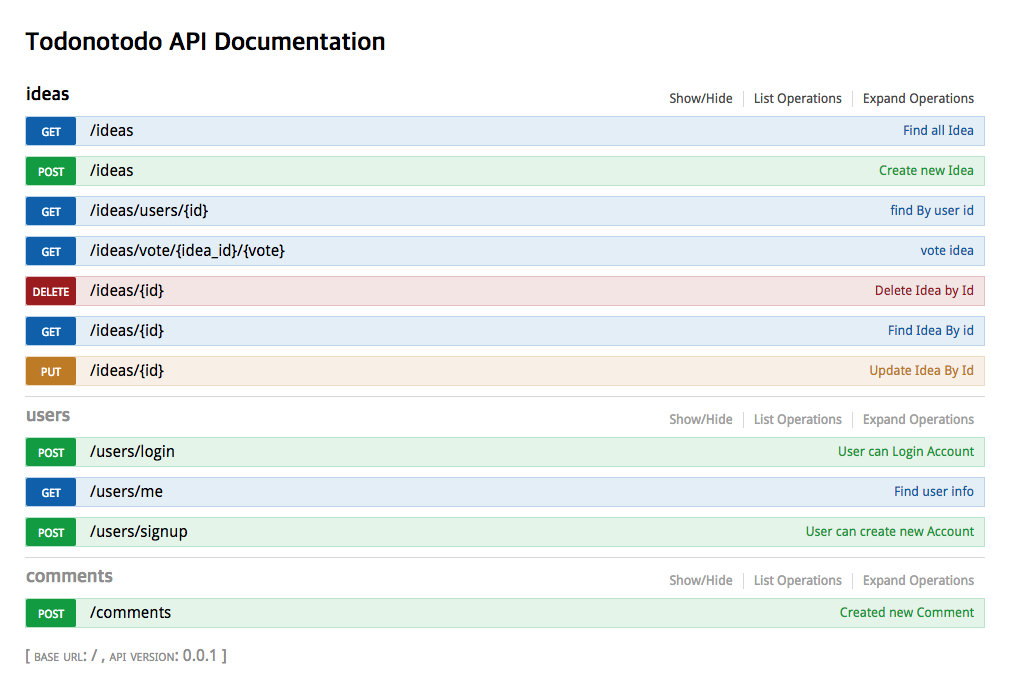
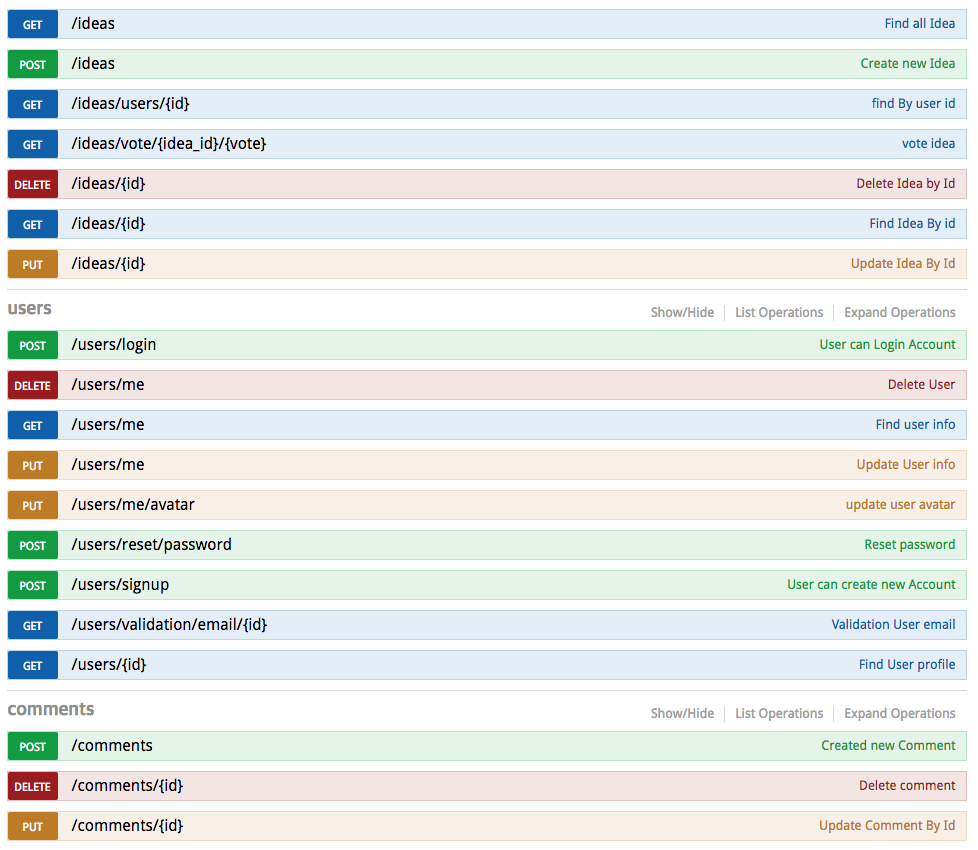
added Todo list resetpassword email validation readme

diff --git a/modules/user/user.controller.js b/modules/user/user.controller.js
@@ -17,6 +17,7 @@ module.exports = {
             user.password = encrypted_password;
             const savedUser = await user.save();
             //Fixme: sending email for validate users email
+            //ex: 이메일 전송 링크생성 및 전송 (ex: http://localhost/users/validation/email/woiwerwo1ksoi12)
             return reply.response('Signup successful !');
         } catch (err) {
             throw Boom.badImplementation('Signup Failed',err);
@@ -108,6 +109,15 @@ module.exports = {
         //Todo: 유저 삭제
         try {
             return reply.response('Success deleted');
+        } catch (e) {
+            throw Boom.Boom.serverUnavailable('Server Error');
+        }
+    },
+    async reset_password(req,reply){
+        //Todo: 유저 패스워드 변경
+        //가입 유저의 이름과 이메일 확인 , 임시비밀번호 저장 및 이메일로 임시 비밀번호 전송
+        try {
+            return reply.response('Success send email temp password');
         } catch (e) {
             throw Boom.Boom.serverUnavailable('Server Error');
         }

diff --git a/modules/user/user.routes.js b/modules/user/user.routes.js
@@ -127,7 +127,7 @@ module.exports = [
         }
     },
     {
-        path: '/users/validation/email/{id}',
+        path: '/users/validation/email/{id}', // 이메일로 전송된 링크 (ex: http://localhost/users/validation/email/woiwerwo1ksoi12)
         method: 'GET',
         config: {
             validate: {
@@ -139,6 +139,22 @@ module.exports = [
             tags: ['api','User'],
             description: 'Validation User email',
             notes: 'Response validation success message'
+        }
+    },
+    {
+        path: '/users/reset/password',
+        method: 'POST',
+        config: {
+            validate: {
+                payload: Joi.object().keys({
+                    username: Joi.string().required(),
+                    email: Joi.string().email().required()
+                })
+            },
+            handler: UserController.reset_password,
+            tags: ['api','User'],
+            description: 'Reset password',
+            notes: 'Response success message'
         }
     }
 ]

diff --git a/modules/user/user.model.js b/modules/user/user.model.js
@@ -11,6 +11,7 @@ const UserSchema = new Schema({
         activate: {type: Boolean,default:true} // 이메일 확인
     },
     password: {type:String,trim:true},
+    temp_password: {type:String,trim:true}, // 이메일을 통해 임시 비밀번호 전송, 패스워드 찾기할 경우 사용
     facebook:{
         id: {type: String},
         accessToken: {type: String},
